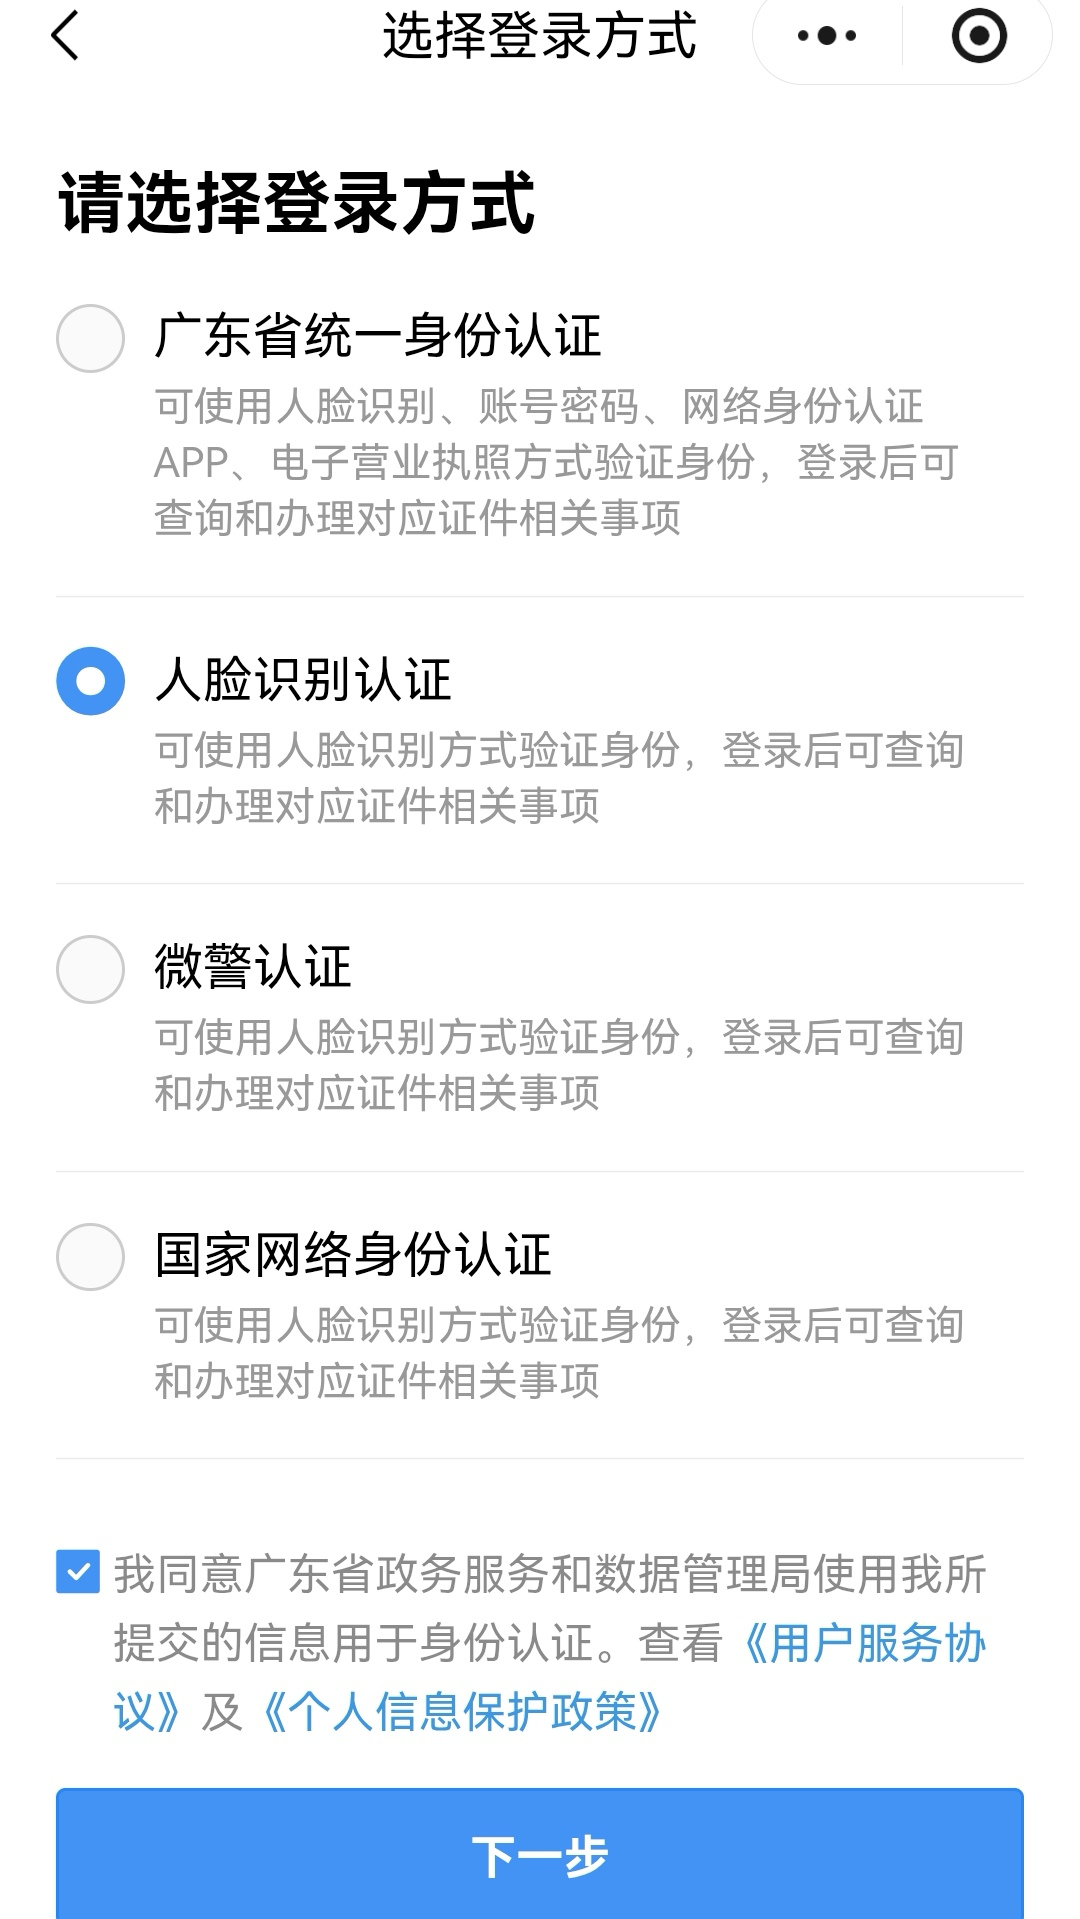
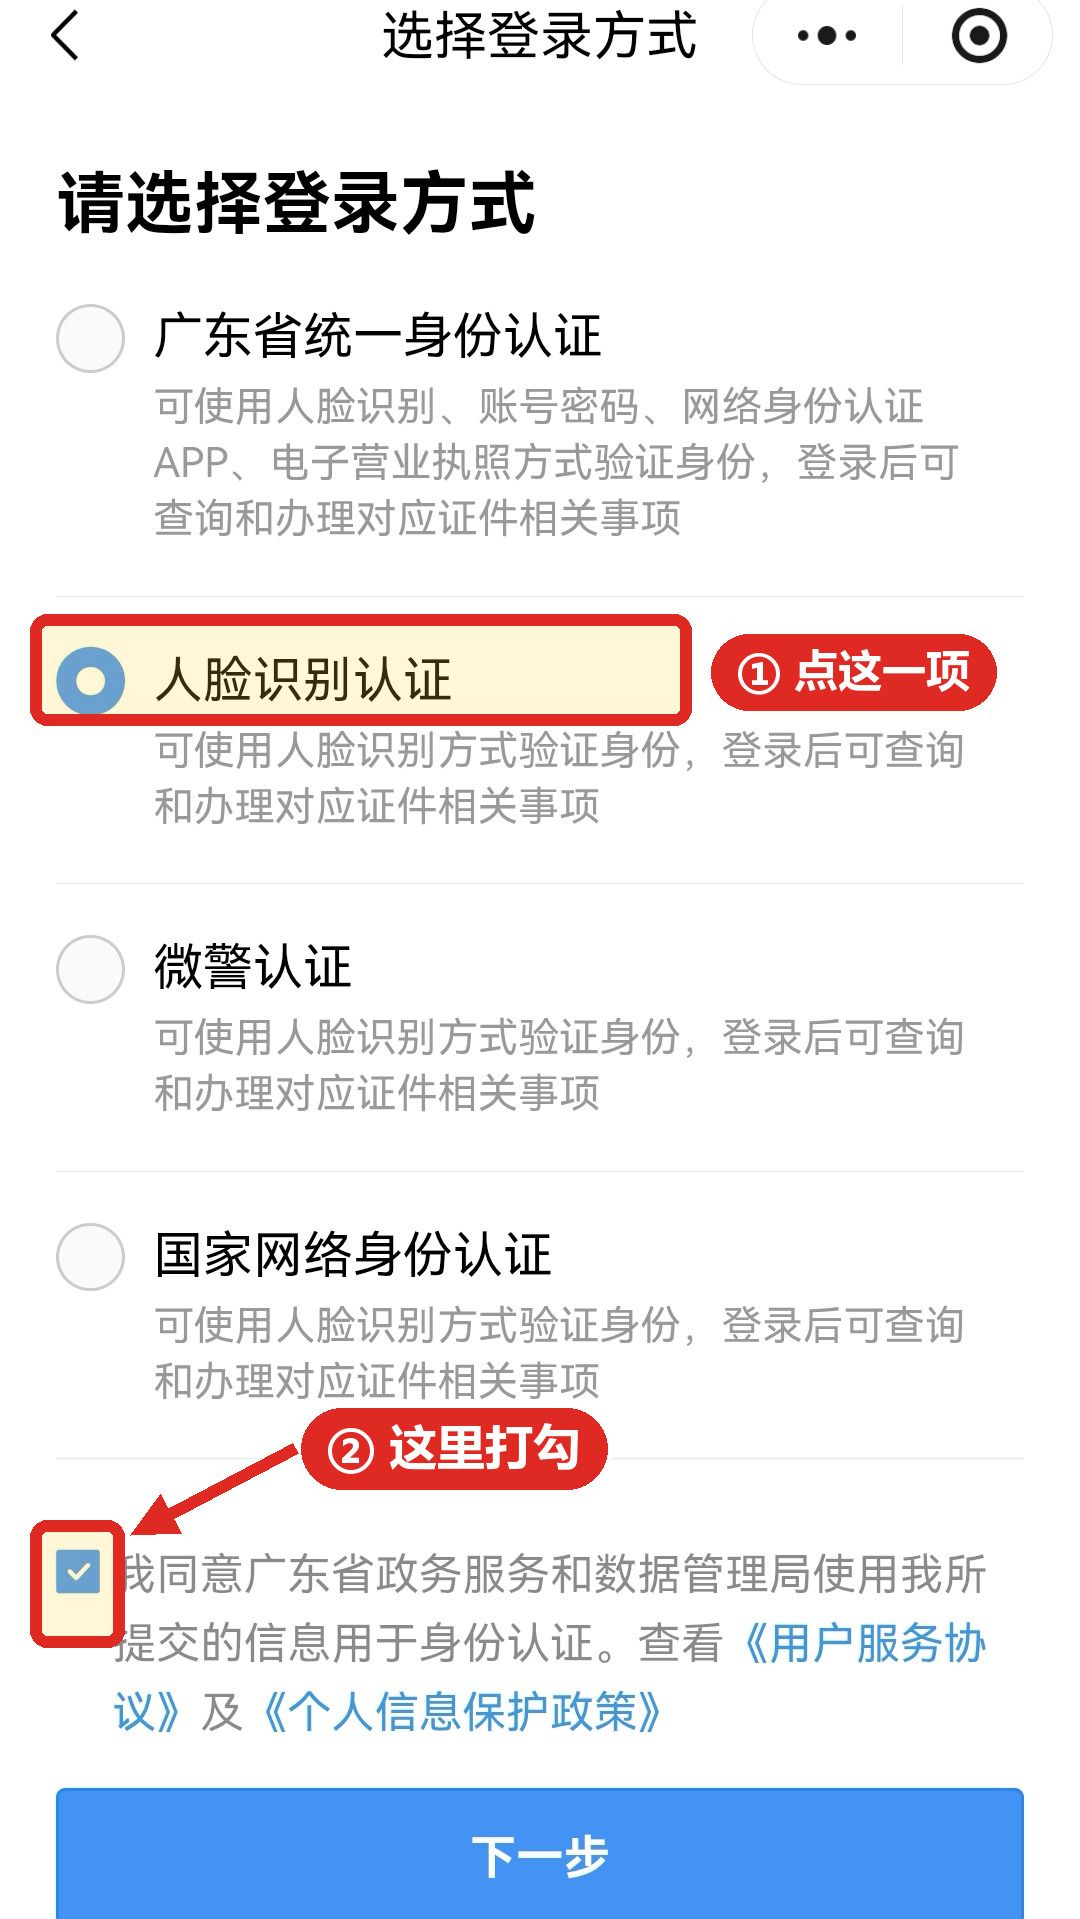
Annotate all 11 screenshots with red tap-target boxes and arrows

Changed region(s): [[0.0306, 0.3075, 0.9472, 0.3997], [0.2139, 0.7071, 0.5806, 0.7994], [0.0306, 0.7686, 0.2139, 0.8609]]

diff --git a/index.html b/index.html
@@ -441,8 +441,8 @@
   </div>
 
   <div class="notice notice--sage reveal">
-    <strong>一句话看懂 · 截图可点击放大</strong>
-    微信打开粤省事并确认城市是「惠州」→ 搜索「业主」→ 点开「业主投票决议」→ 刷脸认证 → 点「开始投票」→ 在「进行中」里选择你认可的物业服务企业并提交。
+    <strong>一句话看懂 · 图中红框就是要点的位置</strong>
+    微信打开粤省事并确认城市是「惠州」→ 搜索「业主」→ 点开「业主投票决议」→ 刷脸认证 → 点「开始投票」→ 在「进行中」里选择你认可的物业服务企业并提交。<b>每张截图都可以点击放大</b>，看不清时点开看。
   </div>
 
   <!-- ================= 第一阶段 ================= -->
@@ -661,7 +661,7 @@
       <div class="row"><span class="k">咨询电话</span><span class="v">粤省事事项页内「咨询电话」；惠州市住建局物业科 0752-2898620</span></div>
     </div>
     <p style="margin-top:16px;">
-      本页截图采集于 <b>2026 年 9 月 14 日</b>，实际界面以粤省事当前显示为准。截图中的个人身份信息已作遮蔽处理。<br>
+      本页截图采集于 <b>2026 年 9 月 14 日</b>，实际界面以粤省事当前显示为准。截图中的个人身份信息已作遮蔽处理，<b>红色方框与箭头为后加的操作指引标记</b>，非平台原有界面元素。<br>
       请仅在本小区业主范围内传阅。
     </p>
   </footer>

diff --git a/README.md b/README.md
@@ -1,11 +1,15 @@
 # 粤省事 · 业主投票操作指引
 
-惠州市业主大会电子投票（选聘物业服务企业）的图文操作指引，11 张实机截图按步骤编排。
+惠州市业主大会电子投票（选聘物业服务企业）的图文操作指引，11 张实机截图按步骤编排，**每张截图都加了红色方框和箭头标出该点哪里**。
 
 ## 内容
 
 - `index.html` — 完整的响应式图文指引（单文件，无外部依赖）
-- 11 张截图 — 从「打开粤省事定位惠州」到「议题列表」的完整链路
+- 11 张带标注的截图 — 从「打开粤省事定位惠州」到「议题列表」的完整链路
+
+## 为什么截图带红框
+
+面向的是小区业主，其中不少是不熟悉手机操作的长者。每张截图都用红色圆角框标出**该点击的位置**，并配一句极短的红底白字提示（如「点这一项」「这里打勾」）。标签刻意做短、字号放大，因为在手机页面上截图只显示约 300px 宽，长句会缩到看不清。
 
 ## 本地查看
 
@@ -22,4 +26,5 @@
 
 - 截图采集于 2026 年 9 月 14 日，实际界面以粤省事当前显示为准
 - 截图中的个人身份信息已作遮蔽处理
+- 红色方框与箭头为后加的操作指引标记，非平台原有界面元素
 - 本指引与粤省事、惠州市住房和城乡建设局无隶属关系，仅为业主互助整理
